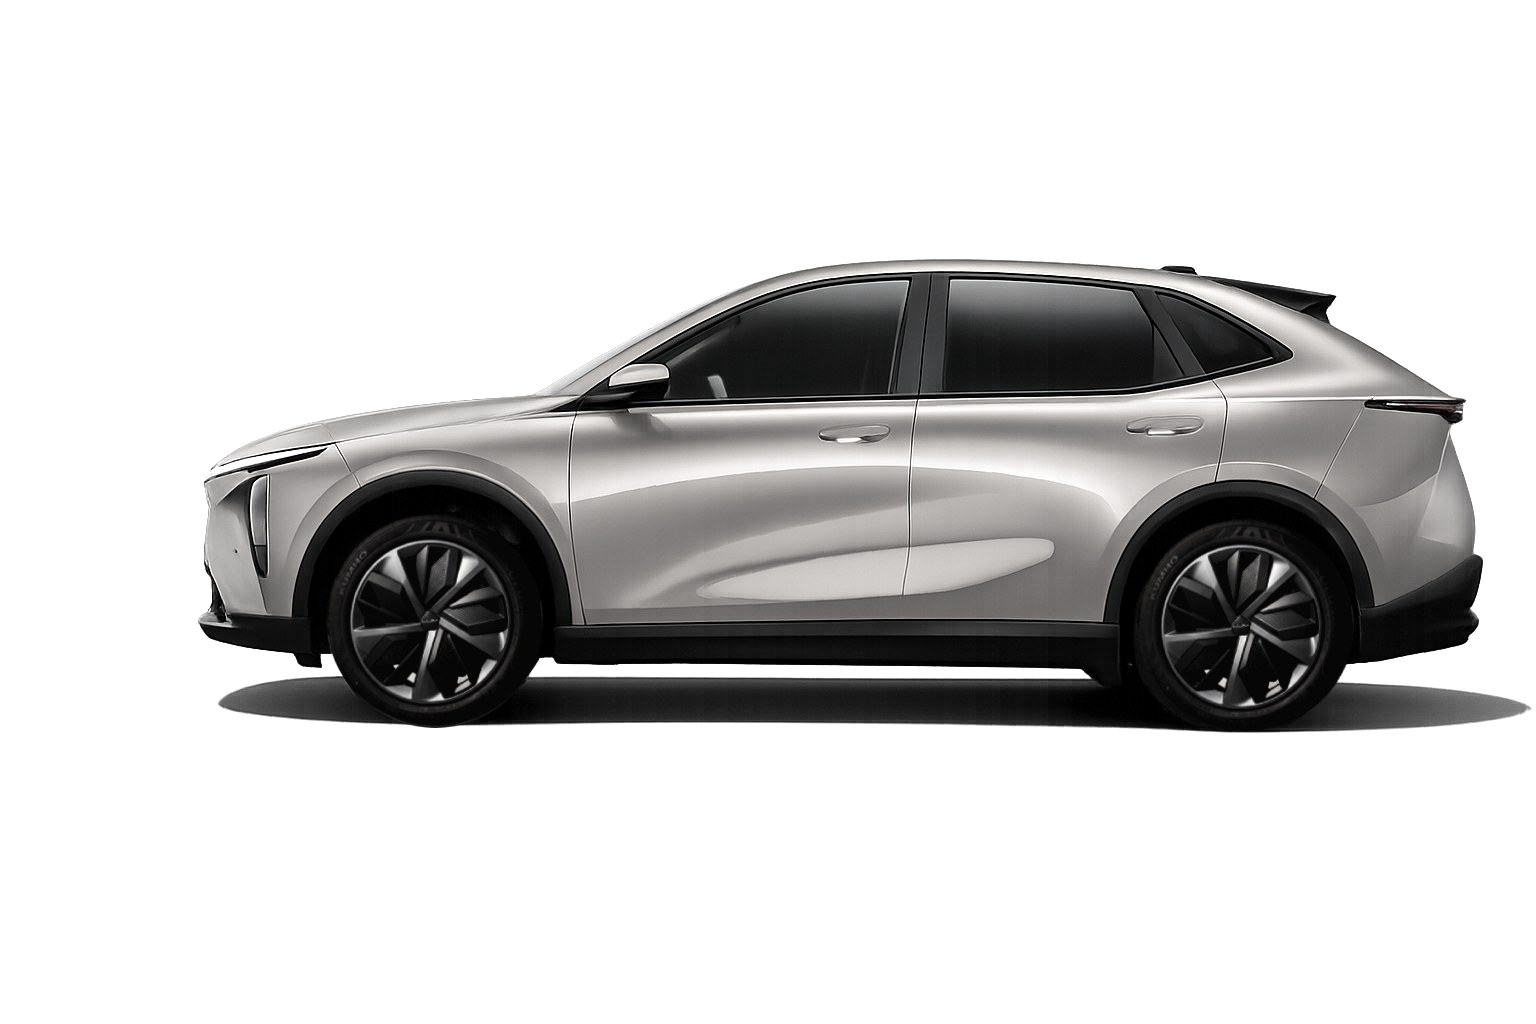
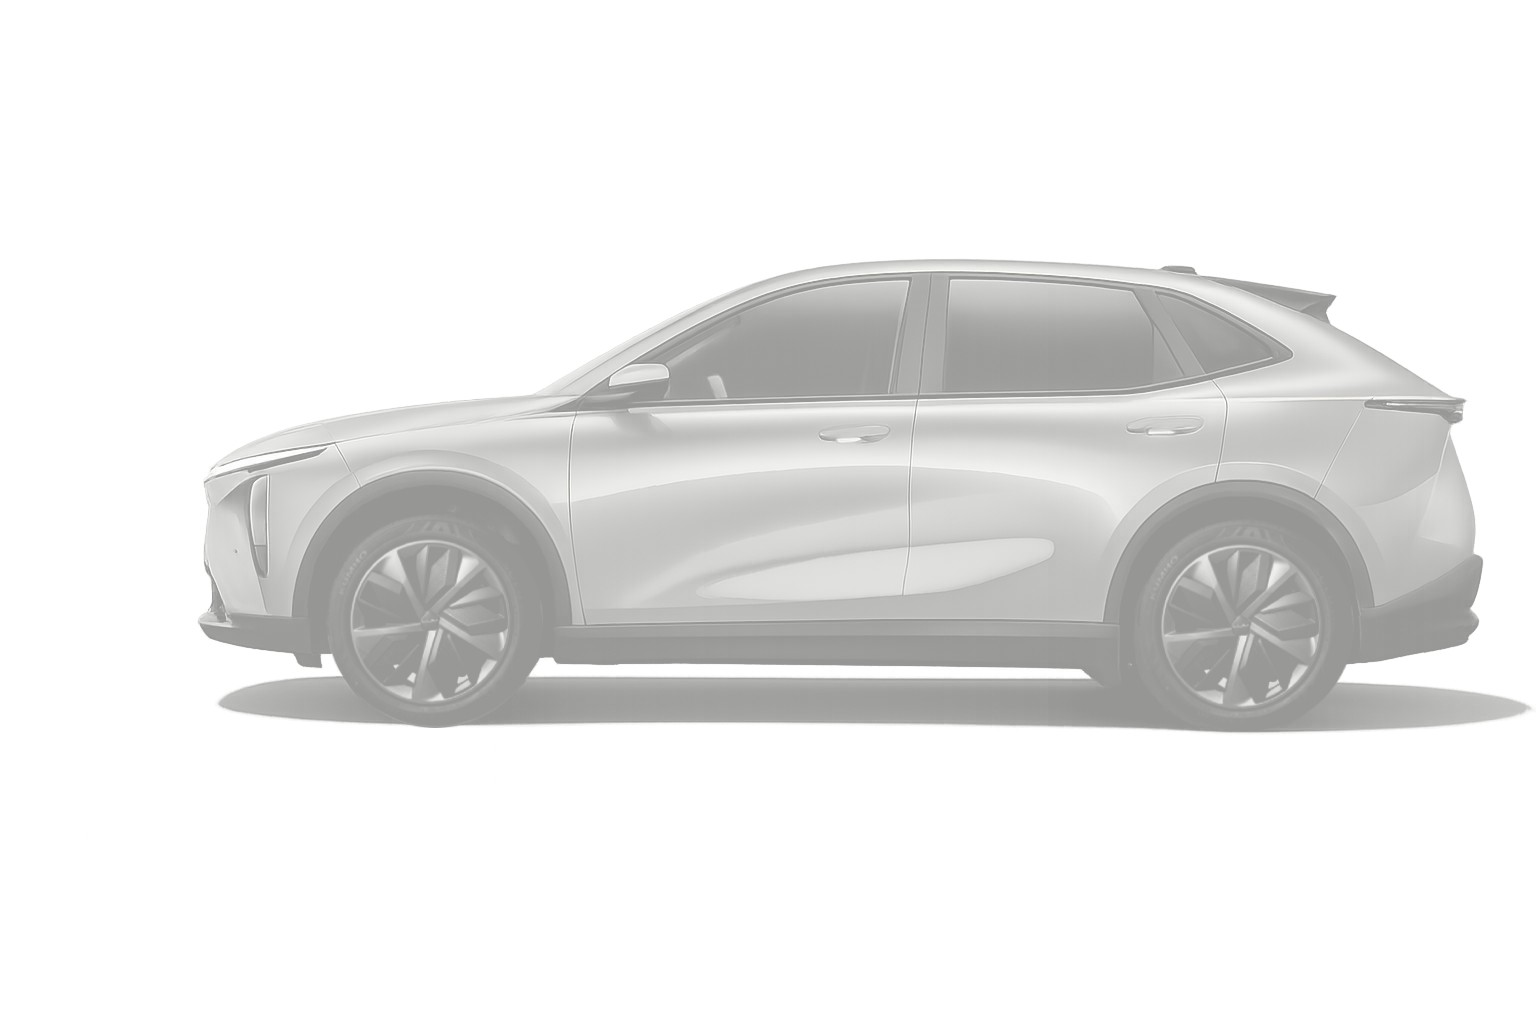
feat: shorter hero, 4-colour configurator, real per-colour vehicles
- Hero ~50% shorter (h-[58vh]), tightened typography, LEV 01 naming
- Configurator: car now dominates section (up to 64vh), UI minimised to
  swatches + label only; removed price/delivery/warranty block
- Colours reduced to 4: Taupe, Graphite Grey, Obsidian Black, Lunar White
  (removed Forest/green and Midnight)
- New per-pixel recolour pipeline preserves pure-white background (fixes the
  dark 'block' artefact); obsidian black reads as glossy deep black
- Specs verified against LEV01 spec deck (REEV: 1000km/170kW/40kWh) — unchanged

Changed region(s): [[0.125, 0.25, 1.0, 0.7188]]

diff --git a/sections/ConfiguratorSection.tsx b/sections/ConfiguratorSection.tsx
@@ -10,83 +10,73 @@ export function ConfiguratorSection() {
   const [active, setActive] = useState<ColorOption>(COLORS[0])
 
   return (
-    <section className="bg-white py-28">
-      <div className="max-w-[1440px] mx-auto px-8">
-        <div className="grid lg:grid-cols-2 gap-16 items-center">
-          {/* Left: picker */}
-          <motion.div
-            initial={{ opacity: 0, x: -30 }}
-            whileInView={{ opacity: 1, x: 0 }}
-            viewport={{ once: true, margin: '-100px' }}
-            transition={{ duration: 0.8, ease: [0.22, 1, 0.36, 1] }}
-          >
-            <p className="text-[10px] tracking-[0.4em] uppercase text-stone-400 mb-2">
-              Configure
-            </p>
-            <h2 className="text-4xl font-extralight text-stone-900 mb-2">
-              Choose your colour
-            </h2>
-            <p className="text-stone-400 font-light text-sm mb-10">
-              {active.name}
-            </p>
+    <section className="bg-white pt-20 pb-16">
+      <div className="max-w-[1600px] mx-auto px-8">
+        {/* Heading — compact */}
+        <motion.div
+          className="text-center mb-2"
+          initial={{ opacity: 0, y: 20 }}
+          whileInView={{ opacity: 1, y: 0 }}
+          viewport={{ once: true, margin: '-100px' }}
+          transition={{ duration: 0.7, ease: [0.22, 1, 0.36, 1] }}
+        >
+          <p className="text-[10px] tracking-[0.4em] uppercase text-stone-400 mb-2">Configure</p>
+          <h2 className="text-3xl sm:text-4xl font-extralight text-stone-900">Choose your colour</h2>
+        </motion.div>
 
-            <div className="flex gap-4">
-              {COLORS.map((color) => (
-                <button
-                  key={color.id}
-                  onClick={() => setActive(color)}
-                  aria-label={color.name}
-                  className="relative w-10 h-10 rounded-full transition-all duration-300 focus:outline-none"
-                  style={{ backgroundColor: color.hex }}
-                >
-                  {active.id === color.id && (
-                    <motion.span
-                      layoutId="color-ring"
-                      className="absolute inset-0 rounded-full ring-2 ring-offset-2 ring-stone-400"
-                    />
-                  )}
-                </button>
-              ))}
-            </div>
-
-            <div className="mt-16 pt-8 border-t border-stone-100">
-              <div className="grid grid-cols-3 gap-8">
-                {[
-                  { label: 'Starting from', value: 'AED 89,000' },
-                  { label: 'Delivery', value: 'Q2 2026' },
-                  { label: 'Warranty', value: '8 Years' },
-                ].map((item) => (
-                  <div key={item.label}>
-                    <p className="text-[10px] tracking-[0.2em] uppercase text-stone-400 mb-1">{item.label}</p>
-                    <p className="text-lg font-light text-stone-800">{item.value}</p>
-                  </div>
-                ))}
-              </div>
-            </div>
-          </motion.div>
-
-          {/* Right: car image */}
-          <div className="relative h-72 lg:h-[420px]">
-            <AnimatePresence mode="wait">
-              <motion.div
-                key={active.id}
-                className="absolute inset-0"
-                initial={{ opacity: 0 }}
-                animate={{ opacity: 1 }}
-                exit={{ opacity: 0 }}
-                transition={{ duration: 0.5, ease: 'easeInOut' }}
-              >
-                <Image
-                  src={active.image}
-                  alt={`LUM LEV 1 in ${active.name}`}
-                  fill
-                  className="object-contain object-center"
-                  sizes="(max-width: 1024px) 100vw, 50vw"
-                />
-              </motion.div>
-            </AnimatePresence>
-          </div>
+        {/* Large vehicle — dominates the section */}
+        <div className="relative w-full h-[42vh] sm:h-[56vh] lg:h-[64vh]">
+          <AnimatePresence mode="wait">
+            <motion.div
+              key={active.id}
+              className="absolute inset-0"
+              initial={{ opacity: 0 }}
+              animate={{ opacity: 1 }}
+              exit={{ opacity: 0 }}
+              transition={{ duration: 0.5, ease: 'easeInOut' }}
+            >
+              <Image
+                src={active.image}
+                alt={`LUM LEV 01 in ${active.name}`}
+                fill
+                priority
+                className="object-contain object-center"
+                sizes="100vw"
+              />
+            </motion.div>
+          </AnimatePresence>
         </div>
+
+        {/* Minimal controls — small, centered under the car */}
+        <motion.div
+          className="flex flex-col items-center gap-5 -mt-2"
+          initial={{ opacity: 0, y: 16 }}
+          whileInView={{ opacity: 1, y: 0 }}
+          viewport={{ once: true, margin: '-80px' }}
+          transition={{ duration: 0.6, ease: [0.22, 1, 0.36, 1] }}
+        >
+          <p className="text-xs tracking-[0.25em] uppercase text-stone-500">{active.name}</p>
+
+          <div className="flex gap-4">
+            {COLORS.map((color) => (
+              <button
+                key={color.id}
+                onClick={() => setActive(color)}
+                aria-label={color.name}
+                aria-pressed={active.id === color.id}
+                className="relative w-7 h-7 rounded-full transition-transform duration-300 hover:scale-110 focus:outline-none"
+                style={{ backgroundColor: color.hex, boxShadow: 'inset 0 0 0 1px rgba(0,0,0,0.12)' }}
+              >
+                {active.id === color.id && (
+                  <motion.span
+                    layoutId="color-ring"
+                    className="absolute -inset-1.5 rounded-full ring-1 ring-stone-400"
+                  />
+                )}
+              </button>
+            ))}
+          </div>
+        </motion.div>
       </div>
     </section>
   )

diff --git a/sections/HeroSection.tsx b/sections/HeroSection.tsx
@@ -11,7 +11,7 @@ export function HeroSection() {
   const opacity = useTransform(scrollYProgress, [0, 0.6], [1, 0])
 
   return (
-    <section ref={ref} id="overview" className="relative h-screen overflow-hidden">
+    <section ref={ref} id="overview" className="relative h-[58vh] min-h-[420px] overflow-hidden">
       {/* Parallax image */}
       <motion.div className="absolute inset-0 scale-110" style={{ y }}>
         <Image
@@ -28,7 +28,7 @@ export function HeroSection() {
 
       {/* Content */}
       <motion.div
-        className="relative z-10 h-full flex flex-col justify-end pb-24 px-8 max-w-[1440px] mx-auto"
+        className="relative z-10 h-full flex flex-col justify-end pb-12 px-8 max-w-[1440px] mx-auto"
         style={{ opacity }}
       >
         <motion.div
@@ -39,10 +39,10 @@ export function HeroSection() {
           <p className="text-white/60 text-xs tracking-[0.4em] uppercase mb-4">
             Introducing
           </p>
-          <h1 className="text-white font-extralight text-7xl md:text-9xl tracking-tight leading-none mb-6">
-            LEV 1
+          <h1 className="text-white font-extralight text-6xl md:text-8xl tracking-tight leading-none mb-4">
+            LEV 01
           </h1>
-          <p className="text-white/70 text-lg font-light tracking-wide max-w-sm">
+          <p className="text-white/70 text-base font-light tracking-wide max-w-sm">
             The electric vehicle reimagined.<br />Pure range. Pure refinement.
           </p>
         </motion.div>
@@ -51,7 +51,7 @@ export function HeroSection() {
           initial={{ opacity: 0, y: 20 }}
           animate={{ opacity: 1, y: 0 }}
           transition={{ duration: 1, ease: [0.22, 1, 0.36, 1], delay: 0.7 }}
-          className="mt-10 flex gap-4"
+          className="mt-6 flex gap-4"
         >
           <a
             href="#specifications"
@@ -70,7 +70,7 @@ export function HeroSection() {
 
       {/* Scroll indicator */}
       <motion.div
-        className="absolute bottom-8 left-1/2 -translate-x-1/2 flex flex-col items-center gap-2"
+        className="hidden md:flex absolute bottom-6 right-8 flex-col items-center gap-2"
         initial={{ opacity: 0 }}
         animate={{ opacity: 1 }}
         transition={{ delay: 1.5, duration: 1 }}

diff --git a/lib/constants.ts b/lib/constants.ts
@@ -19,11 +19,10 @@ export const SPECS: SpecItem[] = [
 ]
 
 export const COLORS: ColorOption[] = [
-  { id: 'desert-sand', name: 'Desert Sand', hex: '#C8B49A', image: '/images/car-sand.jpg' },
-  { id: 'storm-grey', name: 'Storm Grey', hex: '#8A9099', image: '/images/car-grey.jpg' },
-  { id: 'midnight', name: 'Midnight', hex: '#2A2D33', image: '/images/car-midnight.jpg' },
+  { id: 'taupe', name: 'Taupe', hex: '#C8B49A', image: '/images/car-taupe.jpg' },
+  { id: 'graphite', name: 'Graphite Grey', hex: '#6E7073', image: '/images/car-grey.jpg' },
+  { id: 'obsidian', name: 'Obsidian Black', hex: '#1A1A1C', image: '/images/car-black.jpg' },
   { id: 'lunar-white', name: 'Lunar White', hex: '#E8E8E4', image: '/images/car-white.jpg' },
-  { id: 'forest', name: 'Forest', hex: '#4A5C4E', image: '/images/car-forest.jpg' },
 ]
 
 export const FEATURES: FeatureCard[] = [

diff --git a/app/layout.tsx b/app/layout.tsx
@@ -9,10 +9,10 @@ const geist = Geist({
 })
 
 export const metadata: Metadata = {
-  title: 'LUM — LEV 1',
+  title: 'LUM — LEV 01',
   description: 'The electric vehicle reimagined. Pure range. Pure refinement.',
   openGraph: {
-    title: 'LUM — LEV 1',
+    title: 'LUM — LEV 01',
     description: 'The electric vehicle reimagined. Up to 1000 km of range.',
     type: 'website',
   },